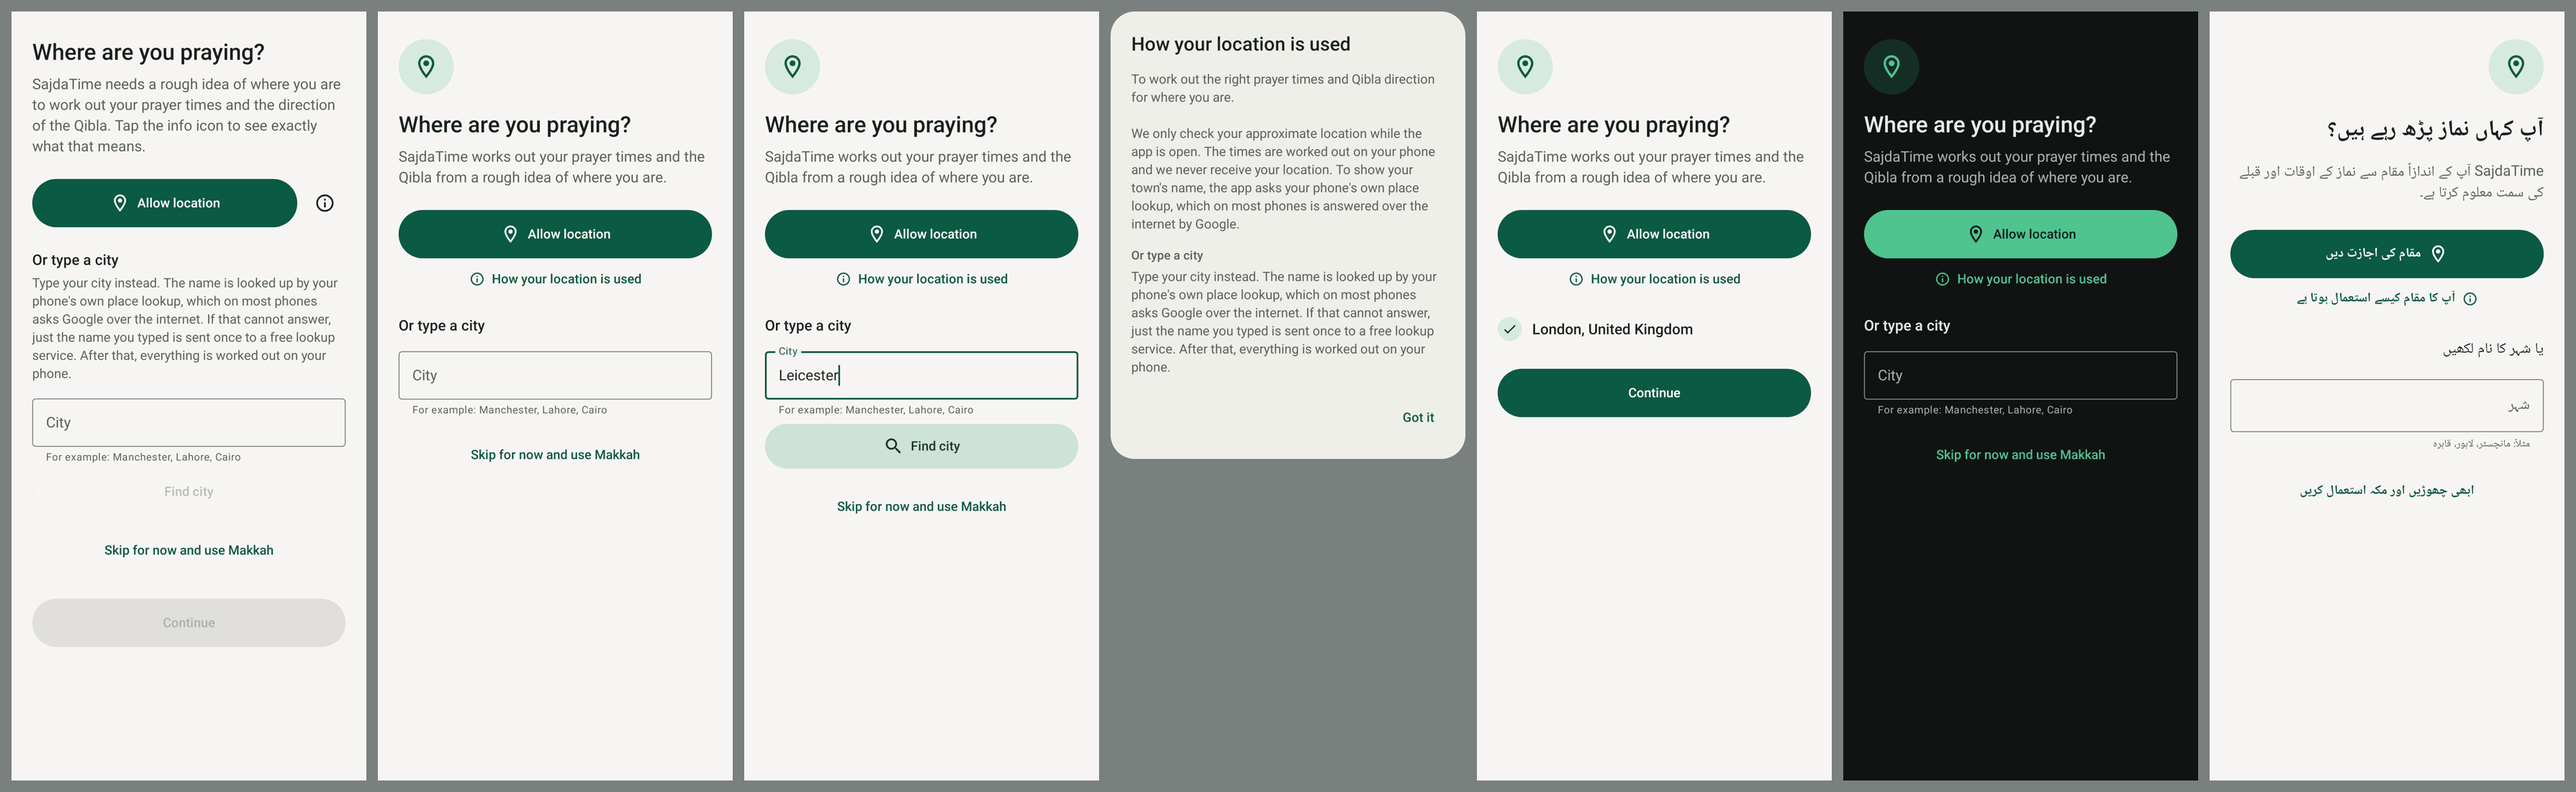
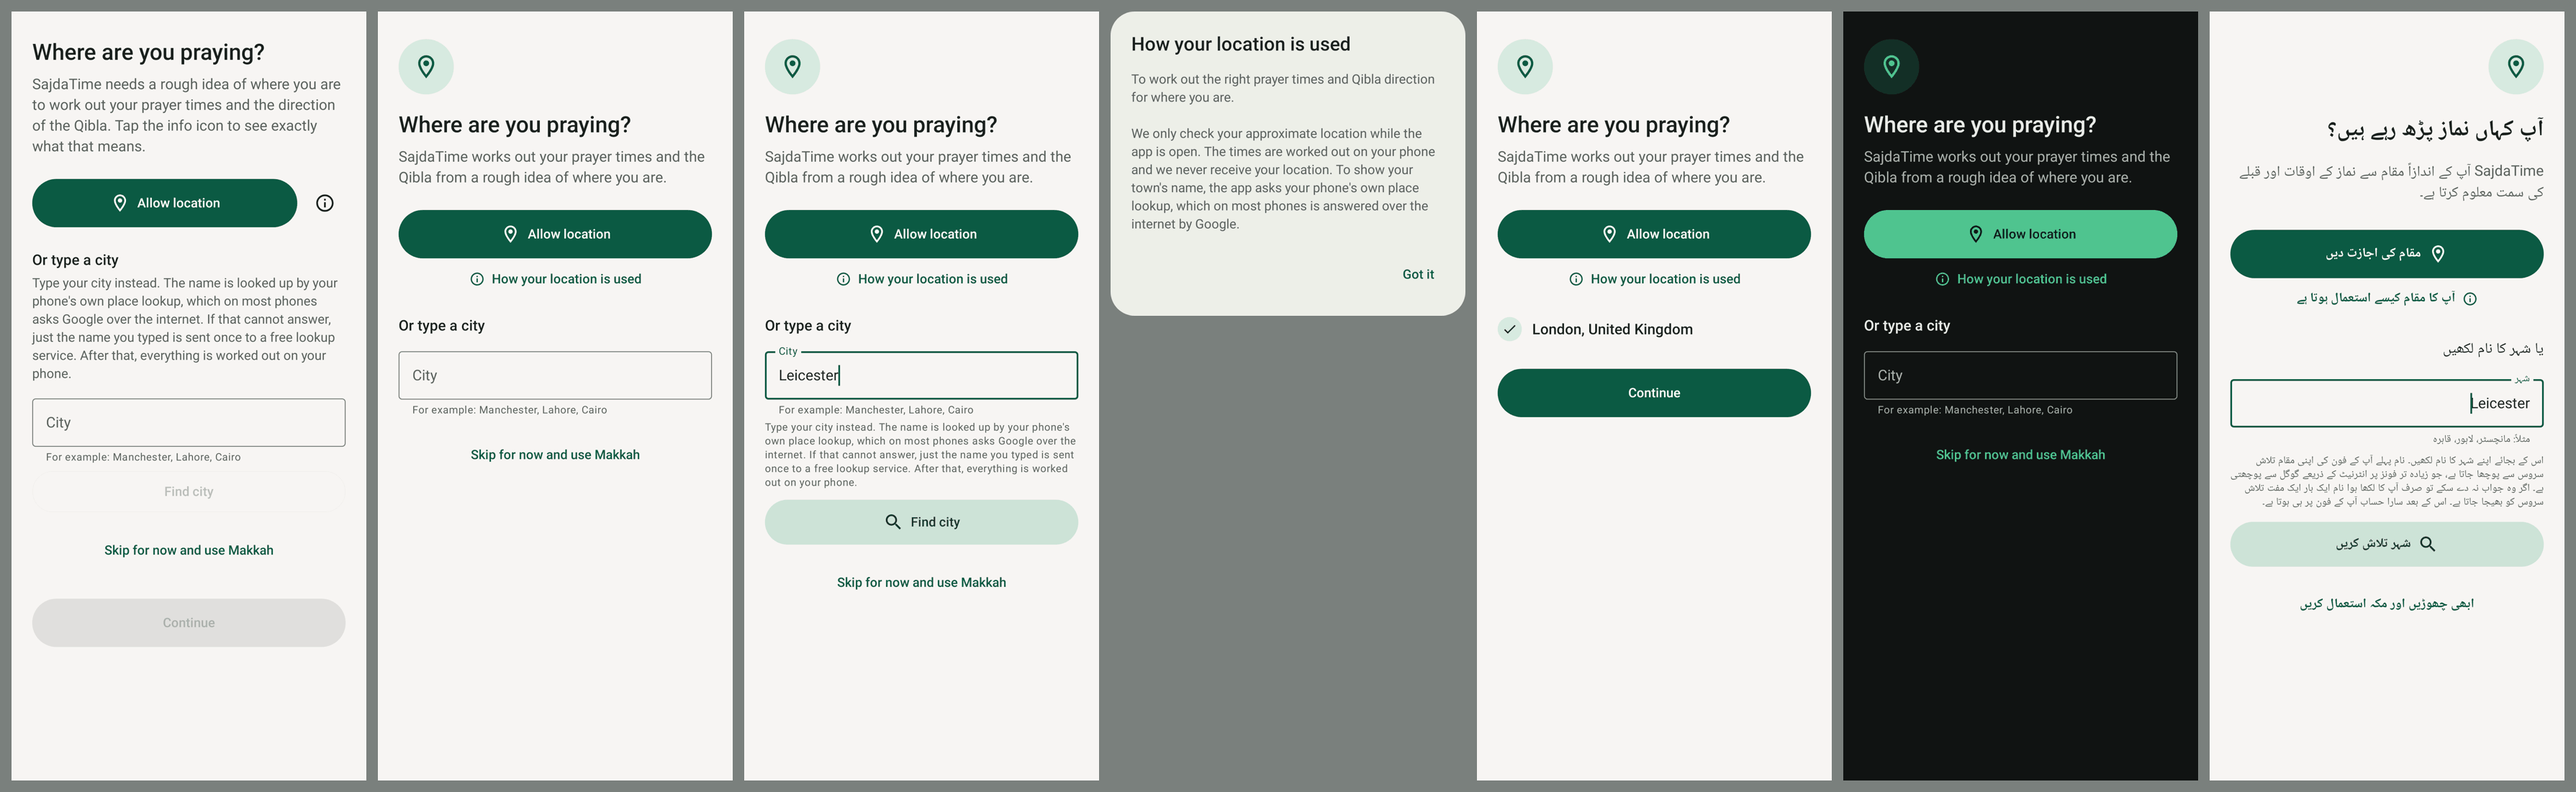
Setup location: city lookup note shown when typing; review fixes
The independent review of 720d95e found nothing blocking and four
small things, all fixed here:

- The city lookup paragraph (a typed name goes to the phone's place
  lookup, usually Google, else once to a free service) had moved behind
  "How your location is used". A link about location permission is not
  where someone typing a city looks, so the notice would be missed at
  the moment it applies. It now appears word for word under the field as
  soon as anything is typed, before Find city or the keyboard's search
  can be pressed, in bodySmall so it does not dominate. The dialog keeps
  only the location explanation, which also removes the odd "Or type a
  city" heading the review flagged inside it.
- permission_why_title was left unused by the new dialog title; removed
  from all five languages.
- "Skip for now and use Makkah" gets a 48dp minimum height (it lacked
  one before this work).
- Checked, no change: sajdaSurface's own 2dp shadow and dark hairline sit
  under the new glow and rim; they align and read as one edge in renders.

Verified: full gate (core 120, app 239, wear 12, 0 failures; lint 0
errors; both release bundles); location step re-rendered in light, dark
and Urdu. Not verified on a phone.

Claude-Session: https://claude.ai/code/session_01SFirFgksUSbu1VfLvQyYEX

Changed region(s): [[0.2791, 0.3088, 0.5893, 0.7411], [0.8684, 0.4941, 0.9925, 0.772]]

diff --git a/app/src/main/java/com/sajdatime/app/ui/onboarding/OnboardingScreen.kt b/app/src/main/java/com/sajdatime/app/ui/onboarding/OnboardingScreen.kt
@@ -369,20 +369,12 @@ private fun PermissionStep(
                 }
             },
             title = { Text(stringResource(R.string.action_how_location_used)) },
-            // Both privacy texts, word for word, one tap away (owner, 18 Oct 2026: a short setup
-            // screen). The city lookup paragraph used to sit inline above the field; it is the
-            // same sentence here under the same heading, so nothing it promises has moved out of
-            // reach, and docs/privacy.html is unchanged.
+            // The location explanation, word for word, one tap away (owner, 18 Oct 2026: a short
+            // setup screen). The city lookup paragraph is not in here: it is shown under the field
+            // the moment the user starts typing, which is when it applies.
             text = {
                 Column(Modifier.verticalScroll(rememberScrollState())) {
                     Text(stringResource(R.string.permission_why_body))
-                    Spacer(Modifier.height(16.dp))
-                    Text(
-                        stringResource(R.string.location_sheet_search_heading),
-                        style = MaterialTheme.typography.titleSmall,
-                    )
-                    Spacer(Modifier.height(4.dp))
-                    Text(stringResource(R.string.city_fallback_body))
                 }
             },
         )
@@ -482,7 +474,17 @@ private fun PermissionStep(
                 modifier = Modifier.fillMaxWidth(),
             )
             if (city.isNotBlank()) {
-                Spacer(Modifier.height(8.dp))
+                // What happens to a typed name, said as soon as there is one and before Find city
+                // can be pressed (the keyboard's search key included). It used to sit above the
+                // empty field, where at 66 words it buried the screen's one choice. Word for word
+                // the same promise as docs/privacy.html; independent review, 18 Oct 2026.
+                Spacer(Modifier.height(4.dp))
+                Text(
+                    text = stringResource(R.string.city_fallback_body),
+                    style = MaterialTheme.typography.bodySmall,
+                    color = MaterialTheme.colorScheme.onSurfaceVariant,
+                )
+                Spacer(Modifier.height(12.dp))
                 FilledTonalButton(
                     onClick = findCity,
                     enabled = !state.resolvingLocation,
@@ -514,7 +516,9 @@ private fun PermissionStep(
                     onUseDefaultLocation()
                     onNext()
                 },
-                modifier = Modifier.fillMaxWidth(),
+                modifier = Modifier
+                    .fillMaxWidth()
+                    .heightIn(min = 48.dp),
             ) {
                 Text(stringResource(R.string.action_use_makkah))
             }

diff --git a/docs/PROJECT_BRIEF.md b/docs/PROJECT_BRIEF.md
@@ -35,7 +35,7 @@ The source of truth is `docs/HANDOVER.md` §11. This file is the short version A
   - Screen reader fixes.
   - **Shorter disclaimer after setup** (Ali's request, 18 Oct 2026): about 70 words, still all four required points, with "Read in full"; the complete disclaimer stays in Settings, About. It was already never shown after updates.
   - **Widget redesign, "hero countdown"** (18 Oct 2026, Ali chose it from three drawn designs; Ali called 1.4.0's widgets bland): the countdown is now the biggest thing on the widget, each prayer has a small picture of where the sun is, five bars show how the day is going, and the large Today widget has the date, the Hijri date and the app's mark. Every widget names the town the times are for in a small location chip (pin, town, update arrow) that opens the app to refresh the location (Ali's request), and the privacy page now says so. Glossy "Apple premium" finish (Ali's request): a soft gradient with a sheen, still opaque so the text stays readable on any wallpaper. Both widgets switch layout by size and fill the space they are given. Checked by drawing them with Android's own code in light, dark, five languages and large text; not yet seen on a real launcher.
-  - **Premium look on the Times screen** (Ali's requests, 18 Oct 2026, approved from screenshots): the next prayer card is glossy in light and dark (dark now uses the widgets' green); every button that was a thin outline is now a solid button so it is hard to miss, the "Different from your mosque?" button with a mosque icon; the setup location screen is short (one line, a big Allow button, the privacy detail word for word behind "How your location is used"). Checked by drawing the screens in light, dark, Urdu and large text; not yet seen on a phone.
+  - **Premium look on the Times screen** (Ali's requests, 18 Oct 2026, approved from screenshots): the next prayer card is glossy in light and dark (dark now uses the widgets' green); every button that was a thin outline is now a solid button so it is hard to miss, the "Different from your mosque?" button with a mosque icon; the setup location screen is short (one line, a big Allow button, the location detail word for word behind "How your location is used", and the city lookup note shown as soon as you type a city). Checked by drawing the screens in light, dark, Urdu and large text; not yet seen on a phone.
   - **Security hardening** (17 Oct 2026): every library checksum-verified at build time, the two known library vulnerabilities fixed (0 known in the 204 shipped libraries), task hijacking blocked, network trust locked to the system's certificates. Firebase key restricted to the app and GitHub protections on (18 Oct). Passkeys on GitHub and Google. Signing values moved to ~/.gradle and proven (18 Oct); a spare copy is kept in ~/.gradle until 1.5.0 is live, then Ali deletes it (he gets a reminder).
   - The habit tracker, only if it is built by then (see below).
 - **Store screenshots** are retaken once, when 1.5.0 ships.

diff --git a/docs/HANDOVER.md b/docs/HANDOVER.md
@@ -5071,11 +5071,12 @@ at his word ("Do the merge"; merge commit, the merged tree identical to the test
    setup. Kept as text on purpose: dialog "Close"/"Got it", "Skip for now and use Makkah" (an escape must
    not compete with Allow) and "Save as PDF" (it sits in a heading). DESIGN_SYSTEM §8.
 7. **Setup location screen redesigned** (he did not like it): a pin badge, one line of text, a full
-   width "Allow location", a "How your location is used" link, the city field, then "Skip". The 66 word
-   city lookup paragraph and the location explanation moved, **word for word**, into the dialog behind
-   the link, so nothing the screen promised is out of reach and `docs/privacy.html` is unchanged. "Find
-   city" appears once something is typed and "Continue" once a location is found, so the screen never
-   shows a dead grey button. The old "Tap the info icon" sentence is gone. New and changed strings in
+   width "Allow location", a "How your location is used" link, the city field, then "Skip". The location
+   explanation moved, **word for word**, into the dialog behind the link. The 66 word city lookup
+   paragraph now appears under the field **the moment the user types**, before "Find city" or the
+   keyboard's search can be pressed (the independent review's point: behind a location link it would be
+   missed exactly when it applies). `docs/privacy.html` is unchanged. "Find city" appears once something
+   is typed and "Continue" once a location is found, so the screen never shows a dead grey button. The old "Tap the info icon" sentence is gone. New and changed strings in
    all five languages, translated by Claude (`permission_body`, `action_how_location_used`).
 
 **Verified:** the full gate on the branch tip (core 120, app 238, wear 12, 0 failures; lint 0 errors;

diff --git a/docs/DESIGN_SYSTEM.md b/docs/DESIGN_SYSTEM.md
@@ -459,9 +459,10 @@ Dated, newest first. Each entry says what was chosen, what was rejected and why,
   to the next prayer card (fixed gradient, opaque, tested; still no colour that moves with the time).
   Rejected: a graphite glass card in dark (the widget body colour; the green card is what he pointed
   at and keeps "green means the next prayer"); the full green fill for secondary actions (two filled
-  buttons on one screen lose the main one); keeping the 66 word city lookup paragraph inline (it hid
-  the choice; it is word for word behind "How your location is used" instead); a shortened privacy
-  paraphrase in that dialog (a paraphrase can drift from privacy.html; the original cannot).
+  buttons on one screen lose the main one); keeping the 66 word city lookup paragraph above the empty
+  field (it hid the choice; it now appears word for word as soon as a city is typed, which is when it
+  applies); putting it only behind "How your location is used" (missed at the moment of typing, the
+  independent review); a shortened privacy paraphrase (a paraphrase can drift from privacy.html).
 - **18 Oct 2026, widgets made glossy, at the owner's request** ("a bit glossy background like apple
   premium style"). This overrides, for the widgets only, the 17 Oct rejection of a shiny finish below.
   Built within the rules that made the rejection sensible: a fixed gradient (testable), no colour
